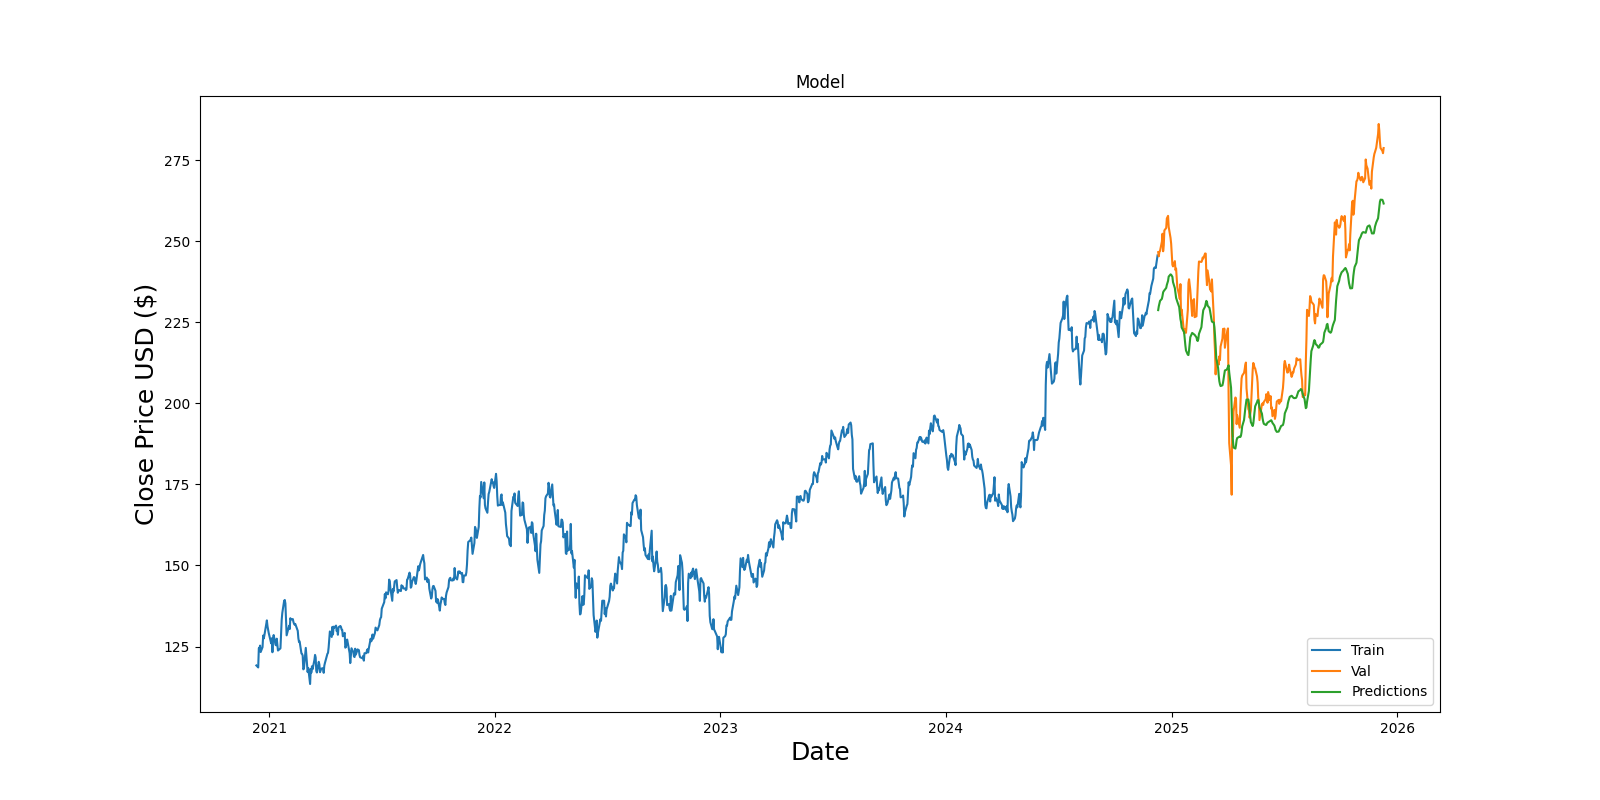
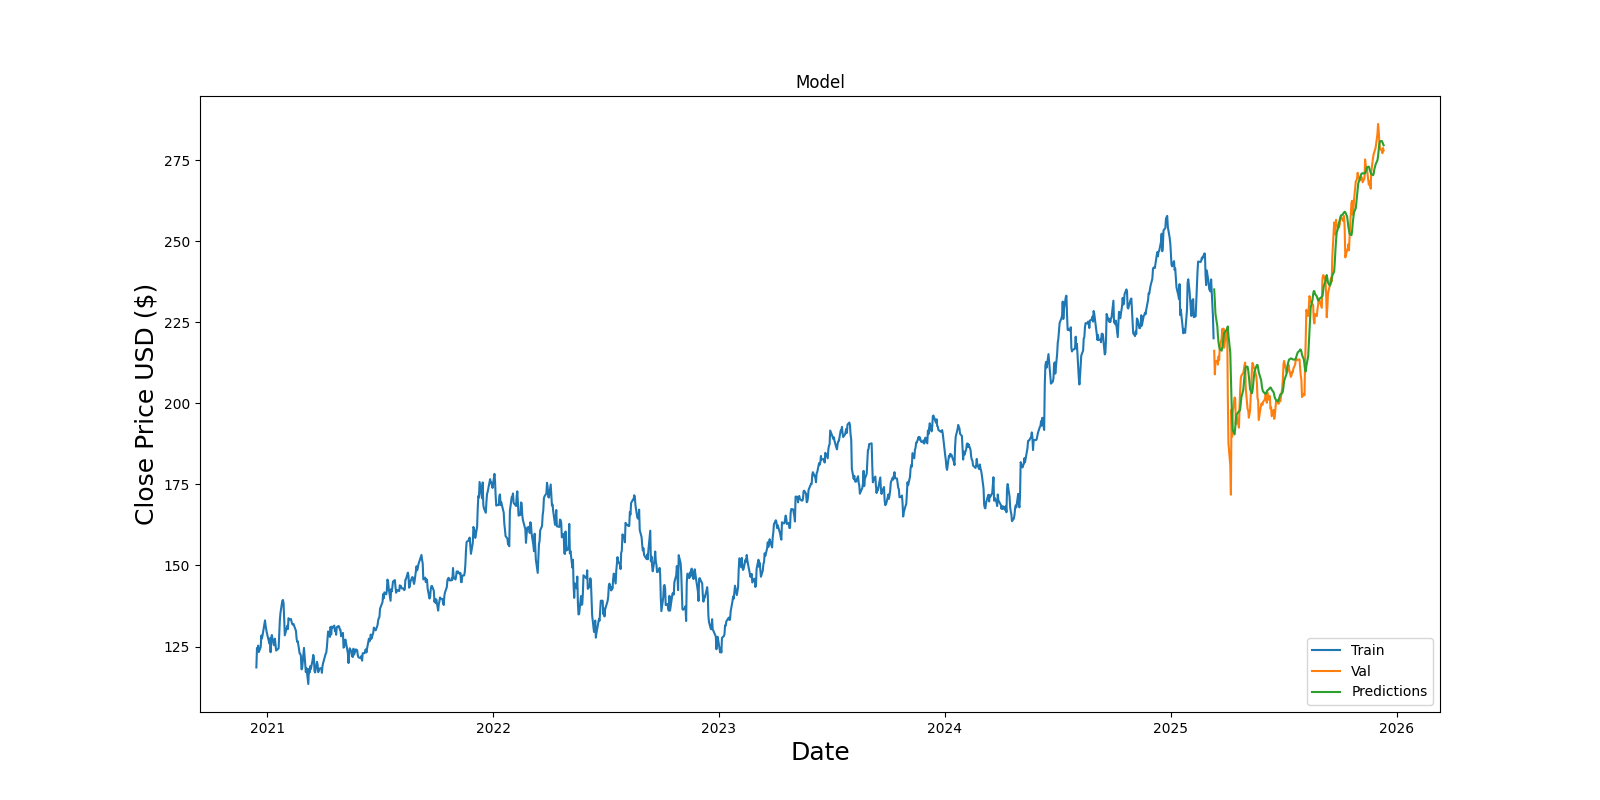
Added Support for more datatypes (OHLCV) Should potentially allow us to add more data easily
Added printing of test RMSE for logs

diff --git a/train.py b/train.py
@@ -2,14 +2,18 @@ import numpy as np
 import pandas as pd
 import matplotlib.pyplot as plt
 from sklearn.preprocessing import MinMaxScaler
+from sklearn.metrics import mean_squared_error
 from tensorflow.keras.models import Sequential
+from tensorflow.keras.regularizers import l2
 from tensorflow.keras.layers import LSTM, Dense
 from dataCollection import collect
 
-def create_dataset(dataset, time_step=60):
+NUM_DATA_POINTS = 5 #OHLCV
+
+def create_dataset(dataset, time_step=60): # TODO OHLCV for dataset
 	dataX, dataY = [], []
 	for i in range(len(dataset) - time_step):
-		a = dataset[i:(i + time_step), 0]
+		a = dataset[i:(i + time_step), :NUM_DATA_POINTS]
 		dataX.append(a)
 		dataY.append(dataset[i + time_step, 0])
 	return np.array(dataX), np.array(dataY)
@@ -22,43 +26,71 @@ if __name__ == "__main__":
 		print(f"Error collecting data: {e}")
 		exit(1)
 
-	data = df.filter(['Close'])
-	dataset = data.values
 
-	scaler = MinMaxScaler(feature_range=(0, 1))
-	scaled_data = scaler.fit_transform(dataset)
+	dataset = df.to_numpy()
 
 	training_data_len = int(np.ceil(len(dataset) * .8))
+	training_data_raw = dataset[:training_data_len, :]
+	testing_data_raw = dataset[training_data_len:, :]
 
-	train_data = scaled_data[0:training_data_len, :]
+
+
+
+	scaler = MinMaxScaler(feature_range=(0, 1))
+	training_data_scaled = scaler.fit_transform(training_data_raw)
+
+	testing_data_scaled = scaler.transform(testing_data_raw)
+
+	close_min = scaler.data_min_[0]
+	close_max = scaler.data_max_[0]
+
+
+
+
 	time_step = 60
-	x_train, y_train = create_dataset(train_data, time_step)
+	x_train, y_train = create_dataset(training_data_scaled, time_step)
+	print(x_train.shape, y_train.shape)
 
-	x_train = np.reshape(x_train, (x_train.shape[0], x_train.shape[1], 1))
+	x_train = np.reshape(x_train, (x_train.shape[0], x_train.shape[1], NUM_DATA_POINTS))
 
 	model = Sequential()
-	model.add(LSTM(50, return_sequences=True, input_shape=(x_train.shape[1], 1)))
+	model.add(LSTM(50, return_sequences=True,
+				input_shape=(x_train.shape[1],
+				NUM_DATA_POINTS)))
 	model.add(LSTM(50, return_sequences=False))
 	model.add(Dense(25))
 	model.add(Dense(1))
+
+	# model = Sequential()
+	# model.add(LSTM(50, return_sequences=True,
+	# 			input_shape=(x_train.shape[1],
+	# 			NUM_DATA_POINTS),
+	# 			kernel_regularizer=l2(0.001)))
+	# model.add(LSTM(50, return_sequences=False, kernel_regularizer=l2(0.001)))
+	# model.add(Dense(25, kernel_regularizer=l2(0.001)))
+	# model.add(Dense(1))
 
 	model.compile(optimizer='adam', loss='mean_squared_error')
 
 	model.fit(x_train, y_train, batch_size=1, epochs=1)
 
-	test_data = scaled_data[training_data_len - time_step:, :]
-	x_test, y_test = create_dataset(test_data, time_step)
+	print(testing_data_scaled.shape)
+	x_test, y_test = create_dataset(testing_data_scaled, time_step)
+	print(x_test.shape, y_test.shape)
 	
-	y_test_actual = dataset[training_data_len:, :]
+	# y_test_actual = dataset[training_data_len:, :]
 
-	x_test = np.reshape(x_test, (x_test.shape[0], x_test.shape[1], 1))
+	x_test = np.reshape(x_test, (x_test.shape[0], x_test.shape[1], NUM_DATA_POINTS))
 
 	predictions = model.predict(x_test)
-	predictions = scaler.inverse_transform(predictions)
+	predictions = predictions * (close_max - close_min) + close_min
 
-	train = data[:training_data_len]
-	valid = data[training_data_len:]
+	train = df[:training_data_len+time_step]
+	valid = df[training_data_len+time_step:]
 	valid['Predictions'] = predictions
+	test_RMSE = np.sqrt(mean_squared_error(valid['Close'], valid['Predictions']))
+	print(f"Testing RMSE = {test_RMSE:.4f}")
+
 
 	plt.figure(figsize=(16, 8))
 	plt.title('Model')
